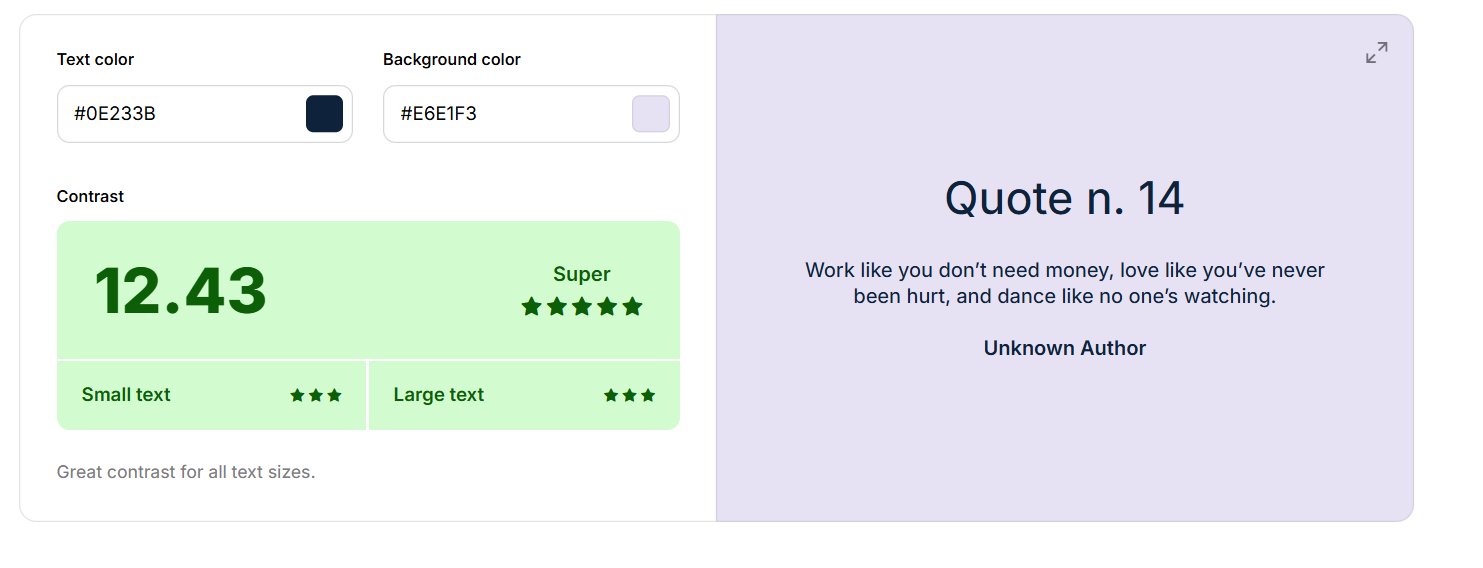
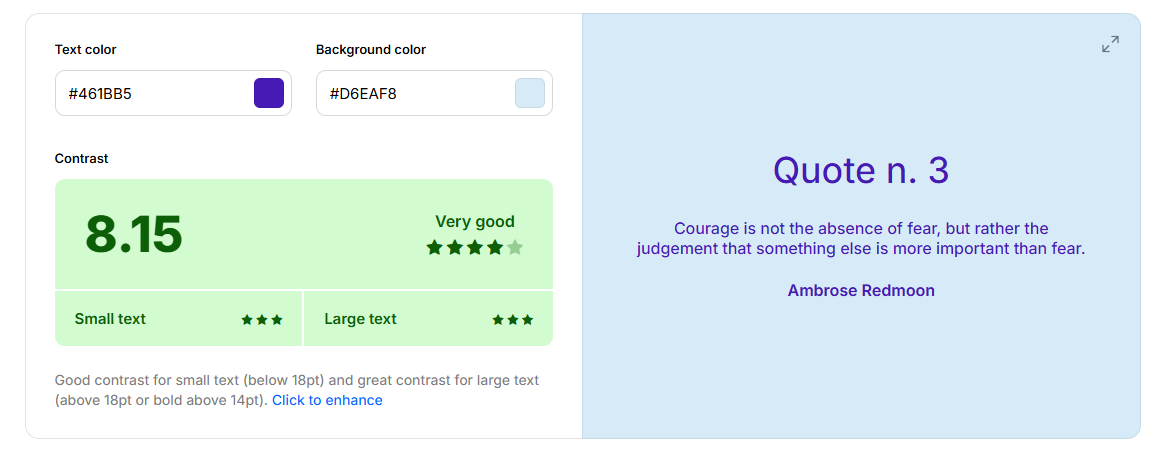
updated colours

diff --git a/src/components/Colours.tsx b/src/components/Colours.tsx
@@ -8,6 +8,8 @@ import mintComparison from "./images/mint_comparison.png";
 import skyComparison from "./images/sky_comparison.png";
 import loginExample from "./images/login_example.png";
 import homeExample from "./images/home_example.png";
+import goalExample from "./images/goals_example.png";
+import progressExample from "./images/progress_example.png";
 
 export function Colours() {
   const navItems = [
@@ -31,14 +33,14 @@ export function Colours() {
   const colors = [
     { name: "Navy Blue", hex: "#0E233B" },
     { name: "Light Sky", hex: "#D6EAF8" },
-    { name: "Lavender", hex: "#E6E1F3" },
-    { name: "Mint Green", hex: "#D4EFDF" }
+    { name: "Lavender", hex: "#461BB5" },
+    { name: "Mint Green", hex: "#4CAF50" }
   ];
 
   const contrastImages = [
     {
       img: lavenderComparison,
-      text: "These colours pass the contrast check for small and large text to a high degree at 12.43, ensuring visibility for everyone with different vision capabilities.",
+      text: "These colours pass the contrast check for small and large text at 8.15, ensuring visibility for everyone with different vision capabilities.",
     },
     {
       img: skyComparison,
@@ -46,13 +48,15 @@ export function Colours() {
     },
     {
       img: mintComparison,
-      text: "These colours pass the contrast check for small and large text to a high degree at 13.02, ensuring visibility for everyone with different vision capabilities.",
+      text: "These colours pass the contrast check for small and large text at 5.71, ensuring visibility for everyone with different vision capabilities.",
     },
   ];
 
   const exampleImages = [
     { img: loginExample, alt: "Login Example", text: "Login Page Design" },
-    { img: homeExample, alt: "Home Example", text: "Home Page Design" }
+    { img: homeExample, alt: "Home Example", text: "Home Page Design" },
+    { img: progressExample, alt: "Progress Example", text: "Progress Page Design" },
+    { img: goalExample, alt: "Goals Example", text: "Goal Page Design" }
   ];
 
   return (
